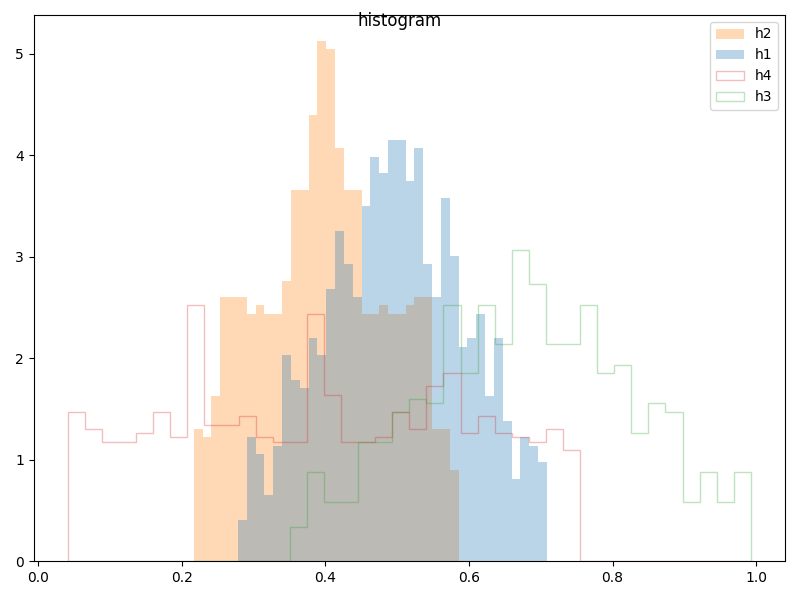
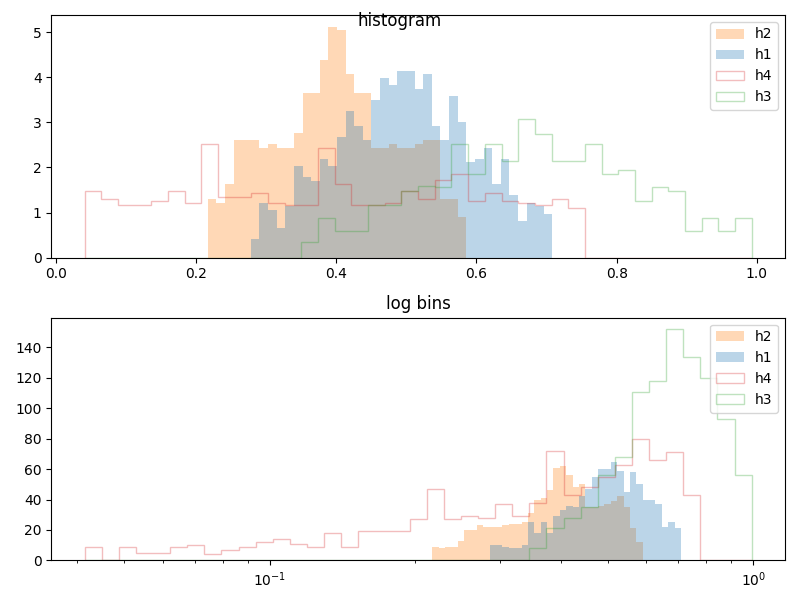
log bin

diff --git a/vitro.cc b/vitro.cc
@@ -175,7 +175,12 @@ Matplot::Matplot(const Figure& fig) {
 
   PyObject* pyplot = PyImport_ImportModule("matplotlib.pyplot");
   if (!pyplot) {
-    throw std::runtime_error("Error loading module matplotlib.pyplot");
+    throw std::runtime_error("Error importing matplotlib.pyplot");
+  }
+
+  PyObject* numpy = PyImport_ImportModule("numpy");
+  if (!numpy) {
+    throw std::runtime_error("Error importing module numpy");
   }
 
   // default dpi = 100 = pixels per inch
@@ -369,16 +374,42 @@ Matplot::Matplot(const Figure& fig) {
           }
         }
 
+        PyObject* bins;
+        if (histogram.bin_log_scale) {
+          double min = std::numeric_limits<double>::max();
+          double max = std::numeric_limits<double>::min();
+          for (auto& xs : histogram.xs_list) {
+            if (xs.empty()) {
+              continue;
+            }
+            const auto [mn, mx] = std::minmax_element(xs.begin(), xs.end());
+            if (*mn < min) {
+              min = *mn;
+            }
+            if (*mx > max) {
+              max = *mx;
+            }
+          }
+
+          bins = PyObject_CallMethod(numpy, "geomspace", "(ddi)", min, max, histogram.num_bins);
+          if (bins == nullptr) {
+            throw std::runtime_error("cannot call np.geomspace()");
+          }
+        } else {
+          bins = PyLong_FromLong(histogram.num_bins);
+        }
+
         auto plot = PyObject_GetAttrString(pyax, "hist");
         auto args = Py_BuildValue("(O)", x);
-        auto kwargs = Py_BuildValue("{s:O,s:O,s:d,s:i,s:O,s:s,s:O,s:O}",                           //
-                                    "weights", (y == nullptr) ? Py_None : y,                       //
-                                    "label", labels,                                               //
-                                    "alpha", histogram.alpha,                                      //
-                                    "bins", histogram.num_bins,                                    //
-                                    "cumulative", histogram.cumulative ? Py_True : Py_False,       //
-                                    "histtype", histogram.type.c_str(),                            //
-                                    "density", histogram.normalize_unit_area ? Py_True : Py_False, //
+        auto kwargs = Py_BuildValue("{s:O,s:O,s:d,s:O,s:O,s:s,s:O,s:O}",
+
+                                    "weights", (y == nullptr) ? Py_None : y,                  //
+                                    "label", labels,                                          //
+                                    "alpha", histogram.alpha,                                 //
+                                    "bins", bins,                                             //
+                                    "cumulative", histogram.cumulative ? Py_True : Py_False,  //
+                                    "histtype", histogram.type.c_str(),                       //
+                                    "density", histogram.normalize_area ? Py_True : Py_False, //
                                     "stacked", histogram.stacked ? Py_True : Py_False);
         auto pyhist = PyObject_Call(plot, args, kwargs);
         if (pyhist == nullptr) {
@@ -388,6 +419,7 @@ Matplot::Matplot(const Figure& fig) {
         Py_DecRef(x);
         Py_DecRef(y);
         Py_DecRef(labels);
+        Py_DecRef(bins);
         Py_DecRef(args);
         Py_DecRef(kwargs);
         Py_DecRef(plot);

diff --git a/example.cc b/example.cc
@@ -73,10 +73,8 @@ void plot3() {
 }
 
 void plot4() {
-  Figure fig;
+  Figure fig(2, 1);
   fig.title = "histogram";
-
-  auto& ax = fig.axes(1, 1);
 
   std::vector<double> x1;
   unsigned int k = 0;
@@ -132,13 +130,31 @@ void plot4() {
   }
 
   {
-    auto& hist = ax.histogram({"h1", "h2"}, 40, {x1, x2});
-    hist.normalize_unit_area = true;
+    auto& ax = fig.axes(1, 1);
+
+    {
+      auto& hist = ax.histogram({"h1", "h2"}, 40, {x1, x2});
+      hist.normalize_area = true;
+    }
+    {
+      auto& hist = ax.histogram({"h3", "h4"}, 40, {x3, x4});
+      hist.type = "step";
+      hist.normalize_area = true;
+    }
   }
   {
-    auto& hist = ax.histogram({"h3", "h4"}, 40, {x3, x4});
-    hist.type = "step";
-    hist.normalize_unit_area = true;
+    auto& ax = fig.axes(2, 1);
+    ax.title = "log bins";
+    ax.xscale = "log";
+    {
+      auto& hist = ax.histogram({"h1", "h2"}, 40, {x1, x2});
+      hist.bin_log_scale = true;
+    }
+    {
+      auto& hist = ax.histogram({"h3", "h4"}, 40, {x3, x4});
+      hist.type = "step";
+      hist.bin_log_scale = true;
+    }
   }
 
   Matplot matplot(fig);

diff --git a/vitro.h b/vitro.h
@@ -88,11 +88,12 @@ public:
   bool stacked = false;
   bool cumulative = false;
   std::string type = "stepfilled"; //  or "step"
-  bool normalize_unit_area = false;
+  bool normalize_area = false;
 
   std::vector<std::vector<double>> xs_list;
   std::optional<std::vector<std::vector<double>>> weights_list;
   int num_bins = 0;
+  bool bin_log_scale = false;
 };
 
 class Text {
